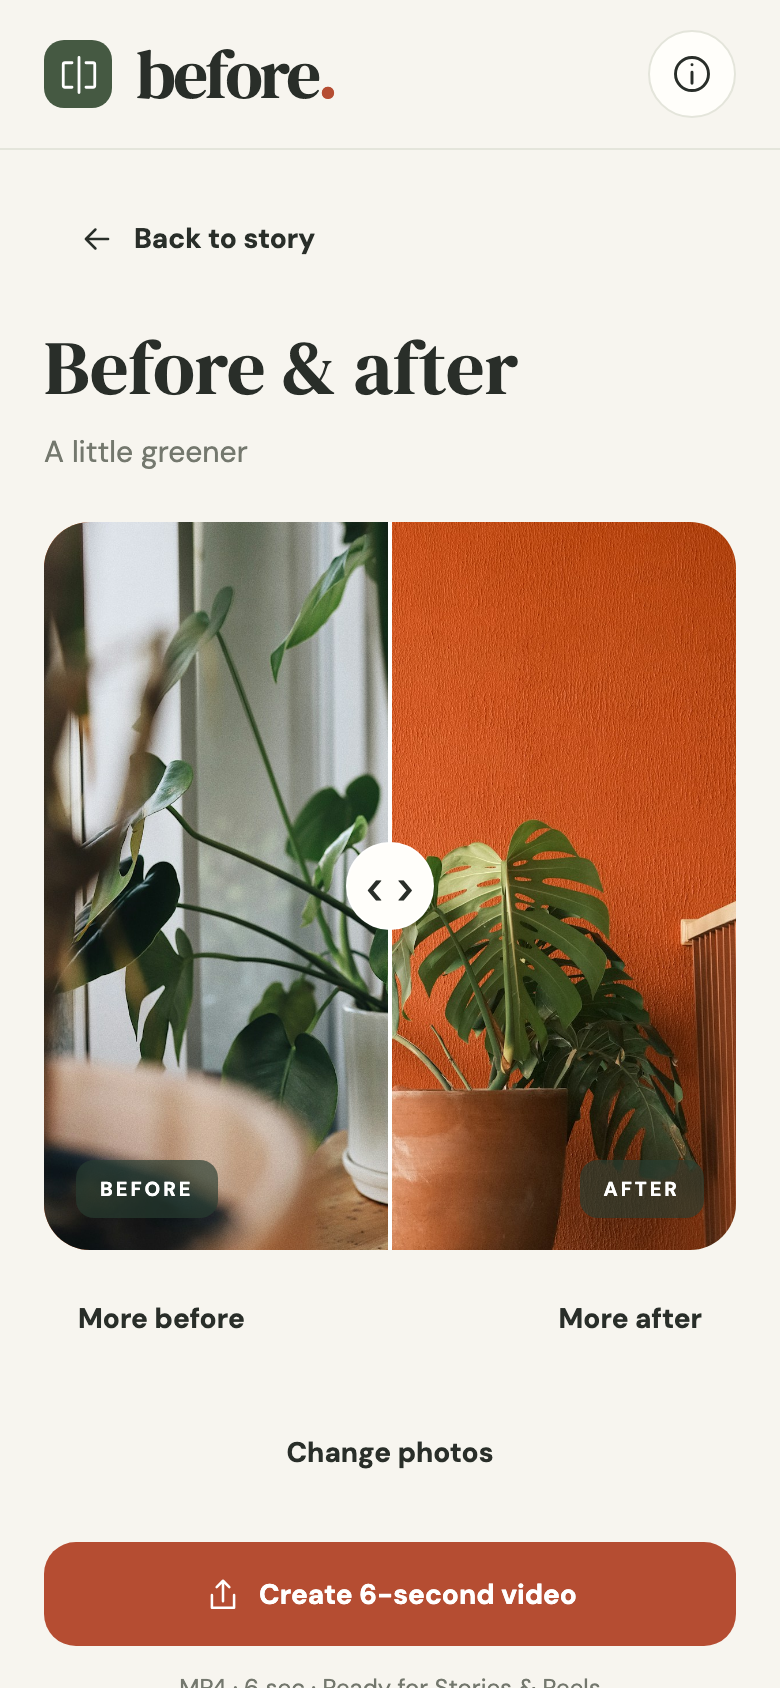
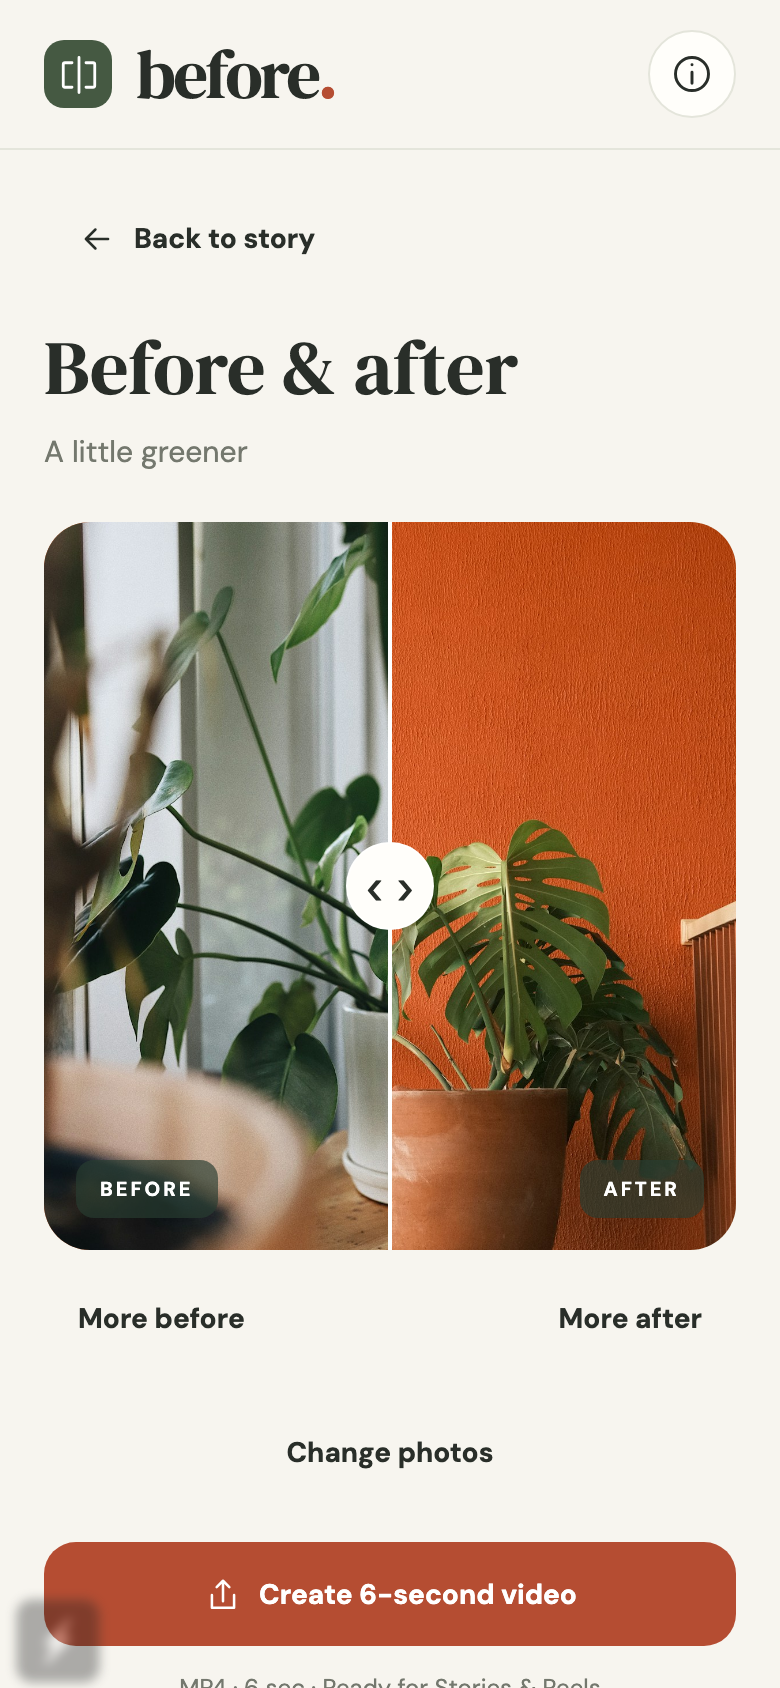
Keep camera and library actions within thumb reach

Changed region(s): [[0.0, 0.9242, 0.1538, 1.0]]

diff --git a/App.tsx b/App.tsx
@@ -37,6 +37,7 @@ import { photoSource } from './src/photos';
 import { colors as c, fonts as f } from './src/theme';
 import { Button, Field, Icon, IconButton, Label, Sheet, s as ui } from './src/components/UI';
 import { Home } from './src/screens/Home';
+import { PhotoActions } from './src/components/PhotoActions';
 import { CompareScreen, Story } from './src/screens/Story';
 
 type Screen =
@@ -357,8 +358,6 @@ export function BeforeApp({ screen }: { screen: Screen }) {
           {screen.name === 'home' && (
             <Home
               projects={journal.projects}
-              onCreate={(camera) => void pick(undefined, camera)}
-              busy={picking || saving}
               onOpen={(id) => navigate({ name: 'story', id })}
               onDemo={() => navigate({ name: 'story', id: 'sample' })}
             />
@@ -367,11 +366,9 @@ export function BeforeApp({ screen }: { screen: Screen }) {
             <Story
               project={current}
               demo={current.id === 'sample'}
-              onAdd={(camera) => void pick(current.id, camera)}
               onEdit={() => showDialog({ type: 'project', project: current })}
               onEditEntry={(entry) => showDialog({ type: 'moment', project: current, entry })}
               onCompare={() => navigate({ name: 'compare', id: current.id })}
-              onCreate={(camera) => void pick(undefined, camera)}
               busy={picking || saving}
             />
           )}
@@ -393,6 +390,25 @@ export function BeforeApp({ screen }: { screen: Screen }) {
           )}
         </View>
       </ScrollView>
+      {(screen.name === 'home' || (screen.name === 'story' && current)) && (
+        <View style={s.photoBar}>
+          <View style={[s.container, { gap: 10 }, screen.name === 'story' && { maxWidth: 620 }]}>
+            {((screen.name === 'home' && journal.projects.length > 0) ||
+              current?.id === 'sample') && (
+              <Text style={[ui.body, { fontSize: 12 }]}>Start a new story</Text>
+            )}
+            <PhotoActions
+              busy={picking || saving}
+              onPick={(camera) =>
+                void pick(
+                  screen.name === 'story' && current?.id !== 'sample' ? current?.id : undefined,
+                  camera,
+                )
+              }
+            />
+          </View>
+        </View>
+      )}
       {dialog?.type === 'project' && (
         <Sheet title="Story details" onClose={closeDialog}>
           <ProjectForm project={dialog.project} busy={saving} error={error} onSave={saveProject} />
@@ -691,6 +707,13 @@ const s = StyleSheet.create({
     letterSpacing: -1.2,
   },
   content: { padding: 22, paddingBottom: 32 },
+  photoBar: {
+    paddingHorizontal: 22,
+    paddingVertical: 16,
+    borderTopWidth: 1,
+    borderColor: c.line,
+    backgroundColor: c.background,
+  },
   container: { maxWidth: 760, width: '100%', alignSelf: 'center' },
   errorBox: {
     backgroundColor: '#F8E5DD',

diff --git a/src/screens/Story.tsx b/src/screens/Story.tsx
@@ -4,7 +4,6 @@ import { Project, Entry, daySpan, formatDate, orderedEntries } from '../domain';
 import { photoSource } from '../photos';
 import { colors as c, fonts as f } from '../theme';
 import { Button, Icon, IconButton, Label, Sheet, s as ui } from '../components/UI';
-import { PhotoActions } from '../components/PhotoActions';
 import { Comparison } from '../components/Comparison';
 import { exportComparison } from '../export';
 import { VideoExportSheet } from '../video/VideoExportSheet';
@@ -13,20 +12,16 @@ import type { VideoInput } from '../video/spec';
 export function Story({
   project,
   demo,
-  onAdd,
   onEdit,
   onEditEntry,
   onCompare,
-  onCreate,
   busy,
 }: {
   project: Project;
   demo: boolean;
-  onAdd: (camera: boolean) => void;
   onEdit: () => void;
   onEditEntry: (entry: Entry) => void;
   onCompare: () => void;
-  onCreate: (camera: boolean) => void;
   busy: boolean;
 }) {
   const entries = orderedEntries(project);
@@ -45,10 +40,8 @@ export function Story({
           {project.category !== 'Everyday' ? ` · ${project.category}` : ''}
         </Text>
       </View>
-      {demo ? (
+      {demo && (
         <Text style={ui.body}>Sample photos of two different plants, for trying the app.</Text>
-      ) : (
-        <PhotoActions onPick={onAdd} busy={busy} />
       )}
       <Button
         title="Compare photos"
@@ -91,12 +84,6 @@ export function Story({
           </Pressable>
         ))}
       </View>
-      {demo && (
-        <View style={{ gap: 12 }}>
-          <Text style={ui.body}>Start your own story</Text>
-          <PhotoActions onPick={onCreate} busy={busy} />
-        </View>
-      )}
     </View>
   );
 }

diff --git a/src/screens/Home.tsx b/src/screens/Home.tsx
@@ -4,20 +4,15 @@ import { Project, orderedEntries, formatDate } from '../domain';
 import { photoSource } from '../photos';
 import { colors as c, fonts as f } from '../theme';
 import { Button, Icon, IconButton, s as ui } from '../components/UI';
-import { PhotoActions } from '../components/PhotoActions';
 
 export function Home({
   projects,
-  onCreate,
   onOpen,
   onDemo,
-  busy,
 }: {
   projects: Project[];
-  onCreate: (camera: boolean) => void;
   onOpen: (id: string) => void;
   onDemo: () => void;
-  busy: boolean;
 }) {
   const [search, setSearch] = useState('');
   const [searching, setSearching] = useState(false);
@@ -45,10 +40,8 @@ export function Home({
         {!projects.length && (
           <Text style={ui.body}>One photo today. Another when things change.</Text>
         )}
-        {!!projects.length && <Text style={ui.body}>Start a new story</Text>}
-        <PhotoActions onPick={onCreate} busy={busy} />
       </View>
-      {searching && (
+      {searching && !!projects.length && (
         <View style={s.search}>
           <Icon name="search" size={18} color={c.muted} />
           <TextInput

diff --git a/README.md b/README.md
@@ -13,7 +13,7 @@ Built with **React Native, Expo SDK 57, Expo Router, and TypeScript** for iOS, A
 
 ## First working slice
 
-- Start a story with a photo: an automatic name and today’s date, with no required typing.
+- Start a story with a photo: an automatic name and today’s date, with no required typing. Camera/library actions stay at the bottom while you scroll.
 - Take photos on iOS and Android or import from the system library; each photo saves immediately.
 - Tap a photo to optionally edit its date or note. Rename stories and choose from five categories in story details; search by name or category.
 - Browse a compact photo gallery, with the latest first.
